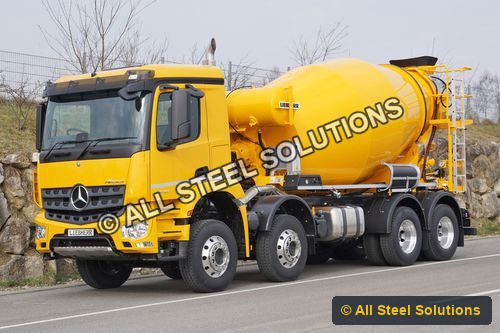
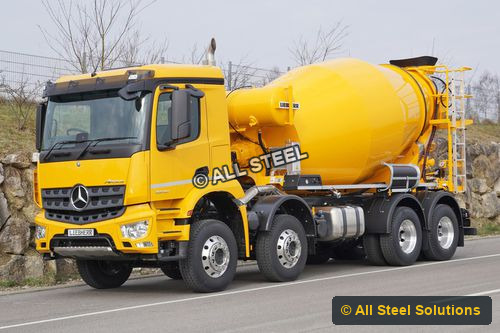
Refine hero image watermark

Changed region(s): [[0.18, 0.2703, 0.81, 0.7207]]

diff --git a/tools/watermark_images.py b/tools/watermark_images.py
@@ -1,6 +1,7 @@
 """Apply the All Steel attribution directly to public product photos."""
 
 from pathlib import Path
+import sys
 
 from PIL import Image, ImageDraw, ImageFont
 
@@ -22,8 +23,9 @@ FONT = "/System/Library/Fonts/Supplemental/Arial Bold.ttf"
 def watermark(path: Path) -> None:
     source = Image.open(path).convert("RGBA")
     width, height = source.size
-    caption = "© ALL STEEL SOLUTIONS"
-    size = max(16, round(min(width, height) * 0.078))
+    hero = path.name == "caminhao-betoneira.jpg"
+    caption = "© ALL STEEL" if hero else "© ALL STEEL SOLUTIONS"
+    size = 18 if hero else max(16, round(min(width, height) * 0.078))
     font = ImageFont.truetype(FONT, size)
     box = ImageDraw.Draw(source).textbbox((0, 0), caption, font=font, stroke_width=1)
     text_width, text_height = box[2] - box[0], box[3] - box[1]
@@ -37,7 +39,7 @@ def watermark(path: Path) -> None:
         stroke_width=2,
         stroke_fill=(12, 22, 28, 165),
     )
-    text_layer = text_layer.rotate(22, expand=True, resample=Image.Resampling.BICUBIC)
+    text_layer = text_layer.rotate(16 if hero else 22, expand=True, resample=Image.Resampling.BICUBIC)
     x = (width - text_layer.width) // 2
     y = (height - text_layer.height) // 2
     source.alpha_composite(text_layer, (x, y))
@@ -71,5 +73,5 @@ def watermark(path: Path) -> None:
         source.convert("RGB").save(path, format="WEBP", quality=92)
 
 
-for filename in PHOTOS:
+for filename in (sys.argv[1:] or PHOTOS):
     watermark(ASSETS / filename)
